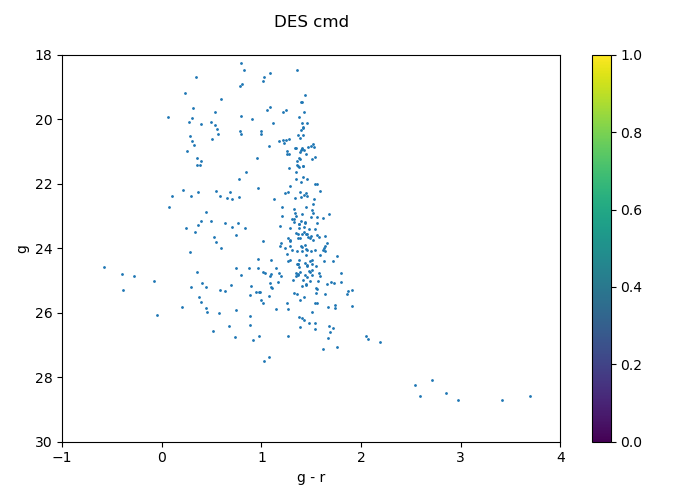
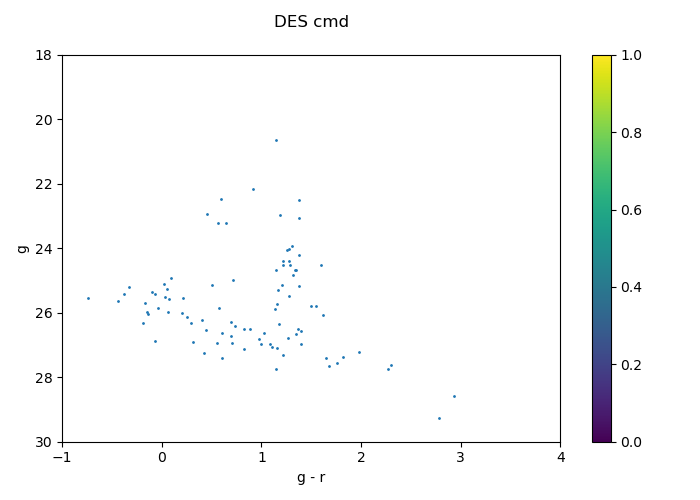
Updated color-color & galaxy sep functions

diff --git a/alfred/plotting_functions.py b/alfred/plotting_functions.py
@@ -595,13 +595,18 @@ def color_color(band_list,
         ax = axes
 
    
-    band1_x, band2_x, band1_y, band2_y = band_list
+    [band1_x, band2_x, band1_y, band2_y] = band_list
     #cleaning out nans because the hist2d doesn't like them
-    nanmask = (~np.isnan(band1_x[1])) & (~np.isnan(band2_x[1])) & (~np.isnan(band1_y[1])) & (~np.isnan(band2_y[1]))
+    nanmask = (~np.isnan(band1_x.mag[1])) & (~np.isnan(band2_x.mag[1])) & (~np.isnan(band1_y.mag[1])) & (~np.isnan(band2_y.mag[1]))
     x1_mag = band1_x.mag[1][nanmask]
     x2_mag = band2_x.mag[1][nanmask]
     y1_mag = band1_y.mag[1][nanmask]
     y2_mag = band2_y.mag[1][nanmask]
+    print('x1 mag is', x1_mag)
+    print('x2 mag is', x2_mag)
+    print('y1 mag is', y1_mag)
+    print('y2 mag is', y2_mag)
+
     with warnings.catch_warnings():
         warnings.filterwarnings("ignore", message='.*colormapping.*')
         warnings.filterwarnings("ignore", message='.*labels.*')
@@ -625,8 +630,7 @@ def color_color(band_list,
                            s = size, cmap = colors)
 
         ax.set_title(title, pad=pad)
-        ax.set(ylabel = f'{band_y1[0]} - {band_y2[0]}',
-               xlabel = f'{band_x1[0]} - {band_x2[0]}')
+        ax.set(ylabel = f'{band1_y.str} - {band2_y.str}', xlabel = f'{band1_x.str} - {band2_x.str}')
         # cleaning up the place, not displayin/changing everything if not needed
         if selection_label[0] != '_':
             ax.legend()
@@ -647,9 +651,9 @@ def color_color(band_list,
             plt.savefig(plots_dir + f'/colorcolor/{filename}.png')
 
 #~~~~~~~~~~START STAR-GAL MORPHOLOGY FUNCTION ~~~~~~~~~~~~~~~~~~~~~~~~~~~~~~~~~~~~~~~
-def star_gal_sep(xax_mag, yax_sep, y_label,
+def star_gal_sep(xax, yax_sep, #y_label,
                  color_data, title, 
-                 colors = 'viridis_r', x_label = 'LSST i mag', 
+                 colors = 'viridis_r', #x_label = 'LSST i mag', 
                  selection_label = '_nolegend', color_label = None,
                  histogram = False, ax = None, line_plt = None,
                  colorbar_limits = (0,1), y_lim = None, x_lim = (18,28),
@@ -718,24 +722,24 @@ def star_gal_sep(xax_mag, yax_sep, y_label,
         if histogram == True:
             # 2D histograms require colormap which is str type
             if color_data is None:
-                ax.hist2d(xax_mag, yax_sep, bins=200,
+                ax.hist2d(xax.mag, yax_sep, bins=200,
                           range = [[x_lim[0],x_lim[1]],[y_lim[0], y_lim[1]]],
                           cmin=1, cmap = colors, label = selection_label)
             # otherwise if color dimension is needed for data, it'll plot contours over scatter
             else:
-                _ = ax.scatter(xax_mag, yax_sep,
+                _ = ax.scatter(xax.mag, yax_sep,
                                c = color_data, vmin=colorbar_limits[0], vmax=colorbar_limits[1],
                                label = selection_label,
                                s = size, cmap = colors)
                 sns.kdeplot(x=xax_mag, y=yax_sep, fill=False, color="k")
         # normal scatter plot
         else:
-            _ = ax.scatter(xax_mag, yax_sep,
+            _ = ax.scatter(xax.mag, yax_sep,
                            c = color_data, vmin=colorbar_limits[0], vmax=colorbar_limits[1],
                            label = selection_label,
                            s = size, cmap = colors)
 
-        ax.set(xlabel = x_label, ylabel = y_label, xlim = x_lim)
+        ax.set(xlabel = f'{xax.str}', ylabel = 'Sep', xlim = x_lim)
         ax.set_title(title, pad=pad) #title is separate so I can have the pad
         # cleaning up the place, not displaying everything if not needed
         if y_lim is not None:

diff --git a/main.py b/main.py
@@ -112,12 +112,12 @@ SearchRegion.data_dict['stellar catalog'] = stars
 SearchRegion.data = stars
 print('Stellar catalog made')
 
-## Some S-G validation plots - NEEDS TO BE UPDATED
-#This is updated cmd function, has yet to be run on real data
+
 #from alfred.DataObjects import Data
 datafile = 'ufd_alfred/external_data/merged/32_9043_lsst_dp2_euclid_q1_merged.parquet'
 #from alfred.DataObjects import Band
 #from alfred.DataObjects import LSSTData
+#calling updated cmd plot
 cmddata = stars
 band1 = cmddata.g
 band2 = cmddata.r 
@@ -131,6 +131,20 @@ plotting_functions.color_magnitude(band1, band2, #mag defined in dataobjects fil
                     x_lim = (-1, 4), y_lim = (30, 18),
                     save = True, filename = None)
 print(len(stars.data))
+#calling updated color color plot
+color_color=stars
+color_data=color_color.g, color_color.r, color_color.i, color_color.z
+bandlist = color_color.g, color_color.r, color_color.i, color_color.z
+plotting_functions.color_color(bandlist, None, 'Color Color', save = True)
+
+#calling updated galaxy sep plot
+sepData = stars
+xax = sepData.i
+yax_sep = sepData.mumax_minus_mag
+#y_label = stars.str
+
+plotting_functions.star_gal_sep(xax, yax_sep, None, 'Galaxy Sep', save = True)
+
 # plotting_functions.color_magnitude(stars.g_mag, 'g', stars.r_mag, 'r', 
 #                                    'c',
 #                                    f'''g vs g-r of {stars.lsst_survey} and {stars.euclid_survey} stars 
@@ -138,6 +152,7 @@ print(len(stars.data))
 #                                    histogram = False,
 #                                    selection_label = 'Zerjal morphology + colorcolor cut',
 #                                    save = True, filename = f'{stars.tract}_{stars.lsst_survey}_{stars.euclid_survey}')
+
 # plotting_functions.color_color([('g', stars.g_mag),('r', stars.r_mag),('r', stars.r_mag),('i', stars.i_mag)],
 #                                None, 
 #                                f'''g-r vs r-i of {stars.lsst_survey} and {stars.euclid_survey} stars in tract
